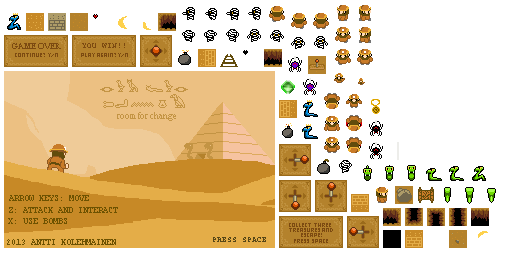
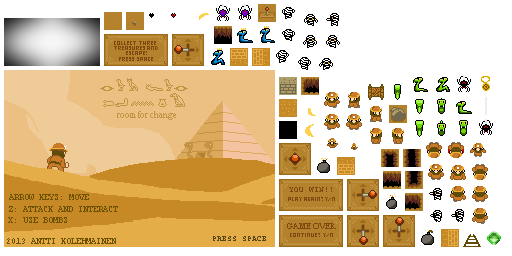
Added a dark hue on  top of screens

diff --git a/roomforchange/roomforchange/src/com/sturdyhelmetgames/roomforchange/screen/GameScreen.java b/roomforchange/roomforchange/src/com/sturdyhelmetgames/roomforchange/screen/GameScreen.java
@@ -10,12 +10,15 @@ import com.badlogic.gdx.graphics.Color;
 import com.badlogic.gdx.graphics.OrthographicCamera;
 import com.badlogic.gdx.graphics.g2d.SpriteBatch;
 import com.badlogic.gdx.graphics.glutils.ShapeRenderer;
+import com.badlogic.gdx.graphics.glutils.ShapeRenderer.ShapeType;
 import com.badlogic.gdx.math.Vector2;
 import com.sturdyhelmetgames.roomforchange.RandomUtil;
 import com.sturdyhelmetgames.roomforchange.RoomForChangeGame;
 import com.sturdyhelmetgames.roomforchange.assets.Assets;
 import com.sturdyhelmetgames.roomforchange.assets.FontBig;
+import com.sturdyhelmetgames.roomforchange.entity.Entity;
 import com.sturdyhelmetgames.roomforchange.entity.Entity.Direction;
+import com.sturdyhelmetgames.roomforchange.entity.Entity.HoleFallWrapper;
 import com.sturdyhelmetgames.roomforchange.entity.Player;
 import com.sturdyhelmetgames.roomforchange.level.Level;
 import com.sturdyhelmetgames.roomforchange.tween.Vector3Accessor;
@@ -84,6 +87,12 @@ public class GameScreen extends Basic2DScreen {
 		spriteBatch.begin();
 		level.render(delta, spriteBatch, false);
 
+		final Color originalColor = spriteBatch.getColor();
+		spriteBatch.setColor(1f, 1f, 1f, 1f);
+		spriteBatch.draw(Assets.getFullGameObject("darkness"),
+				camera.position.x - 7f, camera.position.y - 5f, 14f, 10f);
+		spriteBatch.setColor(originalColor);
+
 		// calculate heart positions
 		final float heartPositionX = camera.position.x - 5.9f;
 		final float heartPositionY = camera.position.y + 2.9f;
@@ -112,7 +121,6 @@ public class GameScreen extends Basic2DScreen {
 		final float gemPosX = camera.position.x + 4f;
 		final float gemPosY = camera.position.y + 3.4f;
 
-		final Color originalColor = spriteBatch.getColor();
 		spriteBatch.setColor(1f, 1f, 1f, 0.5f);
 		spriteBatch.draw(Assets.getGameObject("black"), gemPosX - 0.05f,
 				gemPosY - 0.05f, 3f, 1f);
@@ -161,28 +169,30 @@ public class GameScreen extends Basic2DScreen {
 		level.render(delta, batchMiniMap, true);
 		batchMiniMap.end();
 
-		// shapeRenderer.setProjectionMatrix(camera.combined);
-		// shapeRenderer.begin(ShapeType.Line);
-		//
-		// for (int i = 0; i < level.entities.size; i++) {
-		// shapeRenderer.setColor(Color.WHITE);
-		// final Entity entity = level.entities.get(i);
-		// shapeRenderer.rect(entity.bounds.x, entity.bounds.y,
-		// entity.bounds.width, entity.bounds.height);
-		//
-		// shapeRenderer.setColor(Color.RED);
-		// for (int i2 = 0; i2 < entity.holes.length; i2++) {
-		// HoleFallWrapper hole = entity.holes[i2];
-		// shapeRenderer.rect(hole.bounds.x, hole.bounds.y,
-		// hole.bounds.width, hole.bounds.height);
-		// }
-		// }
-		//
-		// shapeRenderer.rect(level.player.hitBounds.x,
-		// level.player.hitBounds.y,
-		// level.player.hitBounds.width, level.player.hitBounds.height);
-		//
-		// shapeRenderer.end();
+		if (game.isDebug()) {
+			shapeRenderer.setProjectionMatrix(camera.combined);
+			shapeRenderer.begin(ShapeType.Line);
+
+			for (int i = 0; i < level.entities.size; i++) {
+				shapeRenderer.setColor(Color.WHITE);
+				final Entity entity = level.entities.get(i);
+				shapeRenderer.rect(entity.bounds.x, entity.bounds.y,
+						entity.bounds.width, entity.bounds.height);
+
+				shapeRenderer.setColor(Color.RED);
+				for (int i2 = 0; i2 < entity.holes.length; i2++) {
+					HoleFallWrapper hole = entity.holes[i2];
+					shapeRenderer.rect(hole.bounds.x, hole.bounds.y,
+							hole.bounds.width, hole.bounds.height);
+				}
+			}
+
+			shapeRenderer.rect(level.player.hitBounds.x,
+					level.player.hitBounds.y, level.player.hitBounds.width,
+					level.player.hitBounds.height);
+
+			shapeRenderer.end();
+		}
 	}
 
 	protected void processKeys() {

diff --git a/roomforchange/roomforchange/src/com/sturdyhelmetgames/roomforchange/screen/LeverScreen.java b/roomforchange/roomforchange/src/com/sturdyhelmetgames/roomforchange/screen/LeverScreen.java
@@ -2,6 +2,7 @@ package com.sturdyhelmetgames.roomforchange.screen;
 
 import com.badlogic.gdx.Gdx;
 import com.badlogic.gdx.Input.Keys;
+import com.badlogic.gdx.graphics.Color;
 import com.badlogic.gdx.graphics.g2d.TextureRegion;
 import com.sturdyhelmetgames.roomforchange.RoomForChangeGame;
 import com.sturdyhelmetgames.roomforchange.assets.Assets;
@@ -44,6 +45,11 @@ public class LeverScreen extends Basic2DScreen {
 		gameScreen.renderScreen(delta);
 		spriteBatch.setProjectionMatrix(camera.combined);
 		spriteBatch.begin();
+
+		final Color originalColor = spriteBatch.getColor();
+		spriteBatch.setColor(1f, 1f, 1f, 0.5f);
+		spriteBatch.draw(Assets.getFullGameObject("black"), -6f, -4f, 12f, 8f);
+		spriteBatch.setColor(originalColor);
 
 		TextureRegion region = null;
 		if (leverDirection == UP) {

diff --git a/roomforchange/roomforchange/src/com/sturdyhelmetgames/roomforchange/screen/GameOverScreen.java b/roomforchange/roomforchange/src/com/sturdyhelmetgames/roomforchange/screen/GameOverScreen.java
@@ -1,6 +1,7 @@
 package com.sturdyhelmetgames.roomforchange.screen;
 
 import com.badlogic.gdx.Input.Keys;
+import com.badlogic.gdx.graphics.Color;
 import com.sturdyhelmetgames.roomforchange.RoomForChangeGame;
 import com.sturdyhelmetgames.roomforchange.assets.Assets;
 
@@ -23,7 +24,10 @@ public class GameOverScreen extends Basic2DScreen {
 		gameScreen.renderScreen(delta);
 		spriteBatch.setProjectionMatrix(camera.combined);
 		spriteBatch.begin();
-
+		final Color originalColor = spriteBatch.getColor();
+		spriteBatch.setColor(1f, 1f, 1f, 0.5f);
+		spriteBatch.draw(Assets.getFullGameObject("black"), -6f, -4f, 12f, 8f);
+		spriteBatch.setColor(originalColor);
 		spriteBatch
 				.draw(Assets.getFullGameObject("gameover"), -2f, -1f, 4f, 2f);
 		spriteBatch.end();

diff --git a/roomforchange/roomforchange/src/com/sturdyhelmetgames/roomforchange/screen/HelpScreen.java b/roomforchange/roomforchange/src/com/sturdyhelmetgames/roomforchange/screen/HelpScreen.java
@@ -1,6 +1,7 @@
 package com.sturdyhelmetgames.roomforchange.screen;
 
 import com.badlogic.gdx.Input.Keys;
+import com.badlogic.gdx.graphics.Color;
 import com.sturdyhelmetgames.roomforchange.RoomForChangeGame;
 import com.sturdyhelmetgames.roomforchange.assets.Assets;
 
@@ -23,7 +24,10 @@ public class HelpScreen extends Basic2DScreen {
 		gameScreen.renderScreen(delta);
 		spriteBatch.setProjectionMatrix(camera.combined);
 		spriteBatch.begin();
-
+		final Color originalColor = spriteBatch.getColor();
+		spriteBatch.setColor(1f, 1f, 1f, 0.5f);
+		spriteBatch.draw(Assets.getFullGameObject("black"), -6f, -4f, 12f, 8f);
+		spriteBatch.setColor(originalColor);
 		spriteBatch.draw(Assets.getFullGameObject("help"), -2f, -1f, 4f, 2f);
 		spriteBatch.end();
 

diff --git a/roomforchange/roomforchange/src/com/sturdyhelmetgames/roomforchange/assets/Assets.java b/roomforchange/roomforchange/src/com/sturdyhelmetgames/roomforchange/assets/Assets.java
@@ -63,6 +63,7 @@ public class Assets {
 			+ "font-small-black.png";
 	public static final String TEXTURE_FONT_SMALL_WHITE = FOLDER_DATA
 			+ "font-small-white.png";
+
 	public static TextureRegion[] fontBigBlack;
 	public static TextureRegion[] fontBigWhite;
 	public static TextureRegion[] fontSmallBlack;

diff --git a/roomforchange/roomforchange/src/com/sturdyhelmetgames/roomforchange/RoomForChangeGame.java b/roomforchange/roomforchange/src/com/sturdyhelmetgames/roomforchange/RoomForChangeGame.java
@@ -34,6 +34,6 @@ public class RoomForChangeGame extends Game {
 	}
 
 	public boolean isDebug() {
-		return true;
+		return false;
 	}
 }
